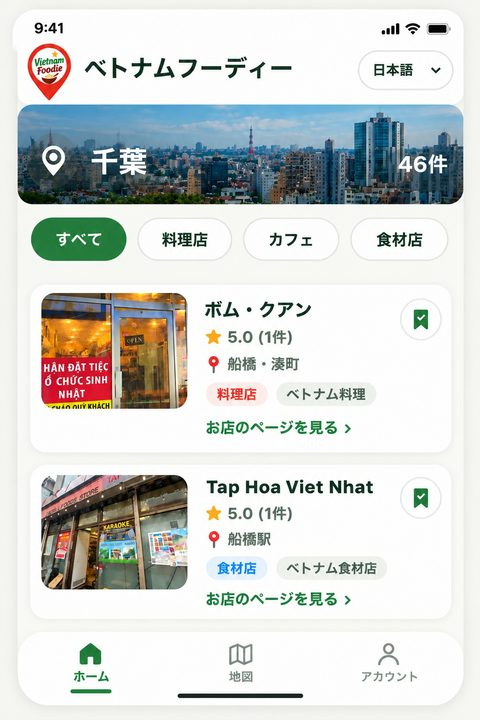
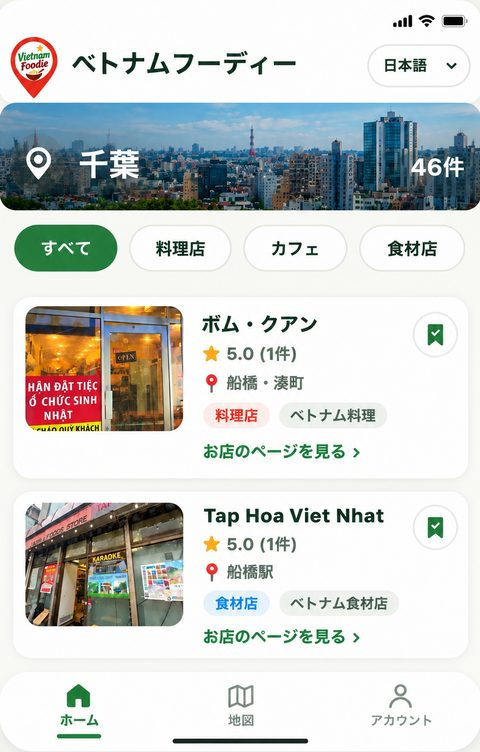
トラベル・リストの画面の例: 1枚目の時刻を消し、2枚目に電波・Wi-Fi・電池を追加して大きさをそろえる
Claude-Session: https://claude.ai/code/session_01AAHBokCuGwAcas5nQYwUFV

diff --git a/index.html b/index.html
@@ -54,7 +54,7 @@
     <!-- このアプリ独自のスタイル -->
     <!-- ?v=… は、更新したときに、ブラウザが古いファイルを使い回さないための番号。
          ファイルを直して公開するときは、この番号(css と js すべて)を新しくしてください -->
-    <link rel="stylesheet" href="css/style.css?v=20261026u" />
+    <link rel="stylesheet" href="css/style.css?v=20261026w" />
   </head>
   <body>
     <!-- 開いたときに、地図の画面が一瞬だけ見えないようにする
@@ -265,41 +265,41 @@
 
     <!-- ピンをまとめて表示するプラグイン Leaflet.markercluster(Leaflet 本体のあとに読み込む) -->
     <script src="https://unpkg.com/leaflet.markercluster@1.5.3/dist/leaflet.markercluster.js"></script>
-    <script src="js/gl-map.js?v=20261026u"></script>
+    <script src="js/gl-map.js?v=20261026w"></script>
 
     <!-- 読み込む順番が大事: 言語の部品 → データ → アプリ本体 → 詳細ページ -->
-    <script src="js/i18n.js?v=20261026u"></script>
-    <script src="js/data.js?v=20261026u"></script>
-    <script src="js/app.js?v=20261026u"></script>
-    <script src="js/live-location.js?v=20261026u"></script>
-    <script src="js/map-guide.js?v=20261026u"></script>
-    <script src="js/tour.js?v=20261026u"></script>
+    <script src="js/i18n.js?v=20261026w"></script>
+    <script src="js/data.js?v=20261026w"></script>
+    <script src="js/app.js?v=20261026w"></script>
+    <script src="js/live-location.js?v=20261026w"></script>
+    <script src="js/map-guide.js?v=20261026w"></script>
+    <script src="js/tour.js?v=20261026w"></script>
     <!-- 地図の目印(大きな駅・大学・観光地・空港の名前。クリックしても開かない) -->
     <!-- 駅の鉄道会社の札 -->
-    <script src="js/station-lines.js?v=20261026u"></script>
-    <script src="js/landmark-areas.js?v=20261026u"></script>
-    <script src="js/landmarks.js?v=20261026u"></script>
+    <script src="js/station-lines.js?v=20261026w"></script>
+    <script src="js/landmark-areas.js?v=20261026w"></script>
+    <script src="js/landmarks.js?v=20261026w"></script>
     <!-- ヘッダーのログイン表示(Firebase の準備ができたら window.authApi を使う。i18n.js と app.js のあと、detail.js の前に読み込む) -->
-    <script src="js/auth.js?v=20261026u"></script>
+    <script src="js/auth.js?v=20261026w"></script>
     <!-- ログインのモーダル(Google / メールアドレス+パスワード)。auth.js のあと、detail.js の前に読み込む -->
-    <script src="js/auth-modal.js?v=20261026u"></script>
+    <script src="js/auth-modal.js?v=20261026w"></script>
     <!-- 店舗詳細ページとURLルーティング(app.js・auth.js・auth-modal.js の部品を使うので、それらのあとに読み込む) -->
     <!-- ホーム(トップページ)。detail.js(ページの切り替え)より前に読み込む -->
-    <script src="js/home.js?v=20261026u"></script>
-    <script src="js/map-quick.js?v=20261026u"></script>
+    <script src="js/home.js?v=20261026w"></script>
+    <script src="js/map-quick.js?v=20261026w"></script>
     <!-- マイリスト(行きたいエリアと、探したいお店の種類)。home.js のあと、detail.js より前に読み込む -->
-    <script src="js/todo.js?v=20261026u"></script>
+    <script src="js/todo.js?v=20261026w"></script>
     <!-- アカウント・プロフィール(画面の下の「アカウント」タブ・「?user=ID」)。home.js のあと、detail.js より前に読み込む -->
-    <script src="js/avatar-crop.js?v=20261026u"></script>
-    <script src="js/account.js?v=20261026u"></script>
-    <script src="js/people.js?v=20261026u"></script>
-    <script src="js/settings.js?v=20261026u"></script>
+    <script src="js/avatar-crop.js?v=20261026w"></script>
+    <script src="js/account.js?v=20261026w"></script>
+    <script src="js/people.js?v=20261026w"></script>
+    <script src="js/settings.js?v=20261026w"></script>
     <!-- 特集のページ(近く・エリアで絞り込み)。todo.js のあとに読み込む(お店のカードを使う) -->
-    <script src="js/feature.js?v=20261026u"></script>
-    <script src="js/contact.js?v=20261026u"></script>
-    <script src="js/translate.js?v=20261026u"></script>
-    <script src="js/detail.js?v=20261026u"></script>
-    <script src="js/onboard.js?v=20261026u"></script>
+    <script src="js/feature.js?v=20261026w"></script>
+    <script src="js/contact.js?v=20261026w"></script>
+    <script src="js/translate.js?v=20261026w"></script>
+    <script src="js/detail.js?v=20261026w"></script>
+    <script src="js/onboard.js?v=20261026w"></script>
 
     <!--
       Firebase(Authentication・Firestore)との接続: プロジェクトは vietnam-foodie です。

diff --git a/js/todo.js b/js/todo.js
@@ -384,8 +384,8 @@ function renderTodoSection() {
       `<p class="todo-intro-desc">${esc(x.introText)}</p>` +
       `</div>` +
       `<div class="todo-intro-phones" aria-hidden="true">` +
-      `<img class="todo-intro-phone is-left" src="images/travel-list-1.jpg" alt="" width="480" height="720" loading="lazy" decoding="async">` +
-      `<img class="todo-intro-phone is-right" src="images/travel-list-2.jpg" alt="" width="480" height="819" loading="lazy" decoding="async">` +
+      `<img class="todo-intro-phone is-left" src="images/travel-list-1.jpg?v=2" alt="" width="480" height="752" loading="lazy" decoding="async">` +
+      `<img class="todo-intro-phone is-right" src="images/travel-list-2.jpg?v=2" alt="" width="480" height="752" loading="lazy" decoding="async">` +
       `</div>` +
       `<a class="todo-new todo-intro-cta" href="${esc(myListEditUrl())}" data-mylist-edit>` +
       // アイコンは、運営者が用意したイラスト(images/mylist-create.png)
